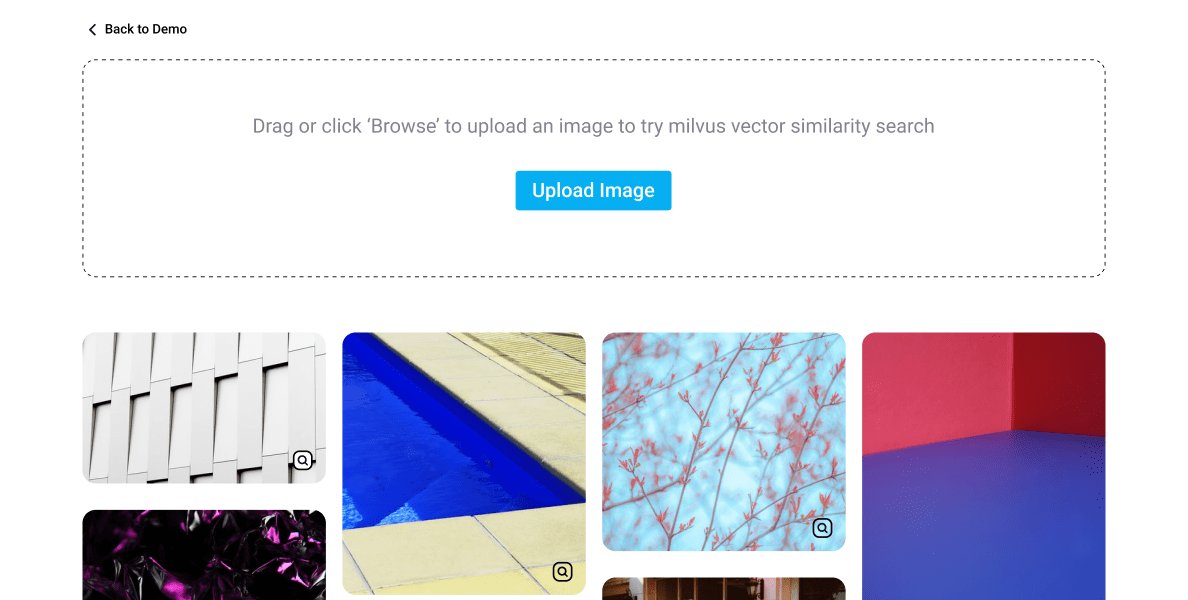
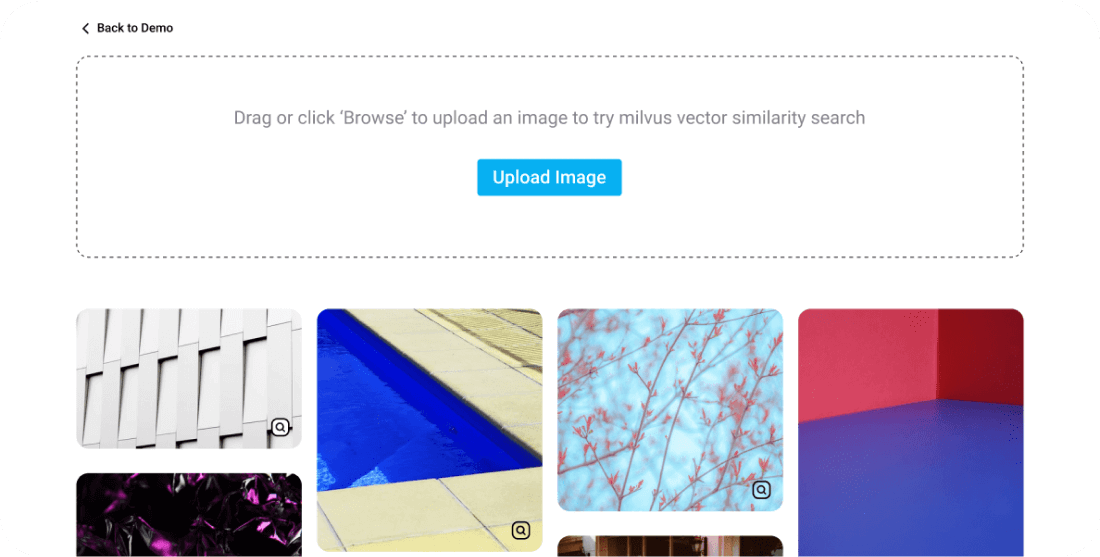
update style of demo page, add hybrid search entrance

diff --git a/src/components/card/DemoCard.module.less b/src/components/card/DemoCard.module.less
@@ -3,150 +3,55 @@
 .demoCard {
   display: flex;
   width: 100%;
-  justify-content: space-between;
+  align-items: center;
+  gap: 60px;
+  border: 1px solid @color-black3;
+  background-color: @color-white1;
+  padding: 30px;
+  border-radius: 16px;
 
-  @media @tablet {
+  @media @tablet, @phone {
     flex-direction: column;
-    justify-content: flex-start;
-    align-items: center;
-  }
-
-  @media @phone {
-    flex-direction: column;
-    justify-content: flex-start;
-    align-items: center;
-  }
-
-  &.even {
-    .coverWrapper {
-      order: 1;
-
-      @media @phone {
-        order: 0;
-      }
-    }
   }
 
   .coverWrapper {
-    order: 0;
-    width: 735px;
-    background-color: #fafafa;
-    filter: drop-shadow(0px 20px 45px rgba(0, 43, 125, 0.25));
-    border-radius: 6px;
+    flex: 1;
+    border-radius: 20px;
     text-align: center;
-    margin-right: 24px;
-
-    @media @tablet {
-      margin-bottom: 48px;
-      max-width: 80%;
-      margin-right: 0;
-    }
-
-    @media @phone {
-      margin-bottom: 24px;
-      max-width: 100%;
-      height: fit-content;
-      margin-right: 0;
-    }
+    overflow: hidden;
 
     img {
       width: 100%;
-
-      @media @tablet {
-        max-width: 100%;
-      }
-
-      @media @phone {
-        width: 100%;
-        height: auto;
-      }
     }
   }
 
   .contentWrapper {
-    order: 1;
-
-    width: 400px;
-
-    @media @phone {
-      max-width: 100%;
-    }
-
-    @media @tablet {
-      text-align: center;
-    }
-
-    @media @phone {
-      text-align: center;
-    }
+    flex: 1;
 
     h3 {
-      font-size: 32px;
-      line-height: 42px;
-      font-weight: 700;
-      margin-bottom: 24px;
-
-      @media @phone {
-        font-size: 20px;
-        line-height: 24px;
-      }
+      .heading3();
+      margin-bottom: 12px;
     }
 
     p {
-      font-size: 16px;
-      line-height: 24px;
-
-      @media @phone {
-        font-size: 14px;
-        line-height: 24px;
-      }
+      .paragraph2-regular();
+      color: @color-black2;
+      margin-bottom: 20px;
     }
 
     .btnGroup {
-      margin-top: 40px;
       display: flex;
       align-items: center;
 
-      @media @tablet {
-        justify-content: center;
-      }
-
-      @media @phone {
-        margin-top: 24px;
-        justify-content: center;
-      }
-
       .tryBtn {
-        text-transform: capitalize;
-        margin-right: 10px;
-        color: #fff;
-        .customButton;
-        .containedBtn;
+        background-color: transparent;
+
+        &:hover {
+          opacity: 0.7;
+        }
       }
 
       .watchBtn {
-        text-transform: capitalize;
-        display: flex;
-        align-items: center;
-        border-radius: 19px;
-        .customButton;
-
-        &:hover {
-          color: #00a1ea;
-          svg {
-            path {
-              fill: #00a1ea;
-            }
-          }
-        }
-
-        svg {
-          margin-left: 10px;
-
-          path {
-            fill: #000;
-          }
-        }
       }
     }
   }

diff --git a/src/components/card/DemoCard.jsx b/src/components/card/DemoCard.jsx
@@ -1,8 +1,9 @@
 import React from 'react';
-import * as styles from './DemoCard.module.less';
+import styles from './DemoCard.module.less';
 import VideoPlayer from '../videoPlayer';
 import InfoSubmitter from '../infoSubmitter';
 import { useTranslation } from 'react-i18next';
+import CustomButton from '@/components/CustomButton';
 
 const UNIQUE_EMAIL_ID = 'UNIQUE_EMAIL_ID';
 
@@ -68,38 +69,49 @@ const DemoCard = ({
   };
 
   return (
-    <div className={`${styles.demoCard} ${index % 2 === 1 ? styles.even : ''}`}>
+    <div className={styles.demoCard}>
+      <div className={styles.coverWrapper}>
+        <img src={cover} alt={name} />
+      </div>
       <div className={styles.contentWrapper}>
         <h3>{name}</h3>
         <p>{desc}</p>
         <div className={styles.btnGroup}>
-          {href && (
-            <button className={`${styles.tryBtn}`} onClick={handleSubmitEmail}>
-              Try Demo
-            </button>
-          )}
+          <CustomButton
+            onClick={handleSubmitEmail}
+            className={styles.tryBtn}
+            variant="outlined"
+          >
+            Try Demo
+          </CustomButton>
 
           {videoSrc && (
-            <button className={`${styles.watchBtn}`} onClick={handleWatchVideo}>
+            <CustomButton
+              className={styles.watchBtn}
+              variant="text"
+              onClick={handleWatchVideo}
+              endIcon={
+                <svg
+                  width="14"
+                  height="15"
+                  viewBox="0 0 14 15"
+                  fill="none"
+                  xmlns="http://www.w3.org/2000/svg"
+                >
+                  <path
+                    d="M10.4668 6.85159C10.7334 7.05159 10.7334 7.45159 10.4668 7.65159L3.80009 12.6516C3.47047 12.8988 3.00009 12.6636 3.00009 12.2516V2.25159C3.00009 1.83956 3.47047 1.60437 3.80009 1.85159L10.4668 6.85159Z"
+                    stroke="black"
+                    stroke-width="1.3"
+                    stroke-linecap="round"
+                    stroke-linejoin="round"
+                  />
+                </svg>
+              }
+            >
               Watch Demo
-              <svg
-                xmlns="http://www.w3.org/2000/svg"
-                width="16"
-                height="16"
-                viewBox="0 0 24 24"
-                fill="none"
-              >
-                <path
-                  d="m10 16.5 6-4.5-6-4.5v9zM12 2C6.48 2 2 6.48 2 12s4.48 10 10 10 10-4.48 10-10S17.52 2 12 2zm0 18c-4.41 0-8-3.59-8-8s3.59-8 8-8 8 3.59 8 8-3.59 8-8 8z"
-                  fill="white"
-                ></path>
-              </svg>
-            </button>
+            </CustomButton>
           )}
         </div>
-      </div>
-      <div className={styles.coverWrapper}>
-        <img src={cover} alt={name} />
       </div>
     </div>
   );

diff --git a/src/styles/milvusDemos.module.less b/src/styles/milvusDemos.module.less
@@ -1,38 +1,25 @@
 @import url('./global.module.less');
 
 .headerSection {
-  padding: calc(80px + @header-height-desktop) 0 80px 0;
-  background: url('/images/demos/demo-banner.svg') center center no-repeat;
-  background-size: contain;
-  background-color: #000;
+  padding: 80px 0;
 
   .innerSection {
     color: #fff;
 
     .title {
-      font-size: 40px;
-      line-height: 50px;
-      background: linear-gradient(to bottom, #679ede, #c4c7ff);
-      -webkit-background-clip: text;
-      color: transparent;
-      margin: 0 auto 24px;
+      .heading2();
+      color: #000;
+      margin: 0 auto 12px;
       text-align: center;
-      font-weight: 700;
-      max-width: 700px;
-
-      @media @phone {
-        font-size: 24px;
-        line-height: 28px;
-      }
+      max-width: 840px;
     }
 
     .desc {
+      .paragraph2-regular();
       text-align: center;
-      font-size: 18px;
-      line-height: 26px;
-      color: #fff;
+      color: @color-black2;
       margin: 0 auto;
-      max-width: 700px;
+      max-width: 900px;
 
       @media @phone {
         font-size: 14px;
@@ -43,31 +30,14 @@
 }
 
 .demoContainer {
-  padding-top: 120px;
-  padding-bottom: 120px;
+  margin-bottom: 60px;
 
   .demoList {
     list-style: none;
-    padding: 120px 0 0 0;
+    padding: 40px 0;
 
-    li:not(:last-child) {
-      margin-bottom: 160px;
-
-      @media @tablet {
-        margin-bottom: 80px;
-      }
-
-      @media @phone {
-        margin-bottom: 48px;
-      }
-    }
-
-    @media @tablet {
-      padding: 120px 64px;
-    }
-
-    @media @phone {
-      padding: 60px 32px;
+    li + li {
+      margin-top: 80px;
     }
   }
 }

diff --git a/src/pages/milvus-demos/index.jsx b/src/pages/milvus-demos/index.jsx
@@ -23,7 +23,7 @@ export default function MilvusDemos() {
       name: t('demos.multimodal.title'),
       desc: t('demos.multimodal.desc'),
       href: DEMO_MULTIMODAL_SEARCH_URL,
-      cover: '/images/demos/multimodal-image-search.jpeg',
+      cover: '/images/demos/multimodal-image-search.png',
       lowerCaseName: 'multimodal image search',
     },
     {
@@ -36,10 +36,18 @@ export default function MilvusDemos() {
       lowerCaseName: 'image search',
     },
     {
+      name: t('demos.hybridSearch.title'),
+      desc: t('demos.hybridSearch.desc'),
+      href: 'https://demos.milvus.io/hybrid-search/ ',
+      cover: '/images/demos/hybrid-search.png',
+      // videoSrc: 'https://www.youtube.com/watch?v=UvhL2vVZ-f4',
+      lowerCaseName: 'hybrid search',
+    },
+    {
       name: t('demos.ossChat.title'),
       desc: t('demos.ossChat.desc'),
       href: 'https://osschat.io/',
-      cover: '/images/demos/ossChat.png',
+      cover: '/images/demos/oss-chat.png',
       // videoSrc: 'https://www.youtube.com/watch?v=UvhL2vVZ-f4',
       lowerCaseName: 'chatbots',
     },
@@ -47,7 +55,7 @@ export default function MilvusDemos() {
       name: t('demos.chemicalSearch.title'),
       desc: t('demos.chemicalSearch.desc'),
       // href: 'http://molsearch.milvus.io/',
-      cover: '/images/demos/chemical-search.svg',
+      cover: '/images/demos/chemical-structure-search.png',
       videoSrc: 'https://www.youtube.com/watch?v=4u_RZeMBTNI',
       lowerCaseName: 'chemical',
     },
